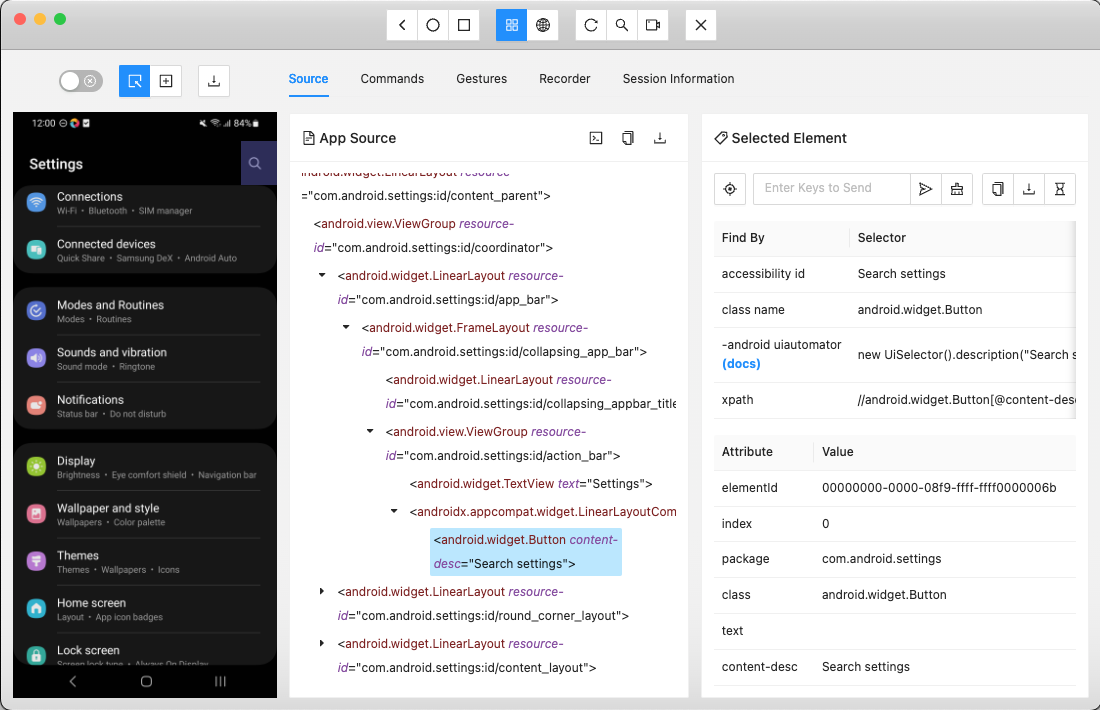
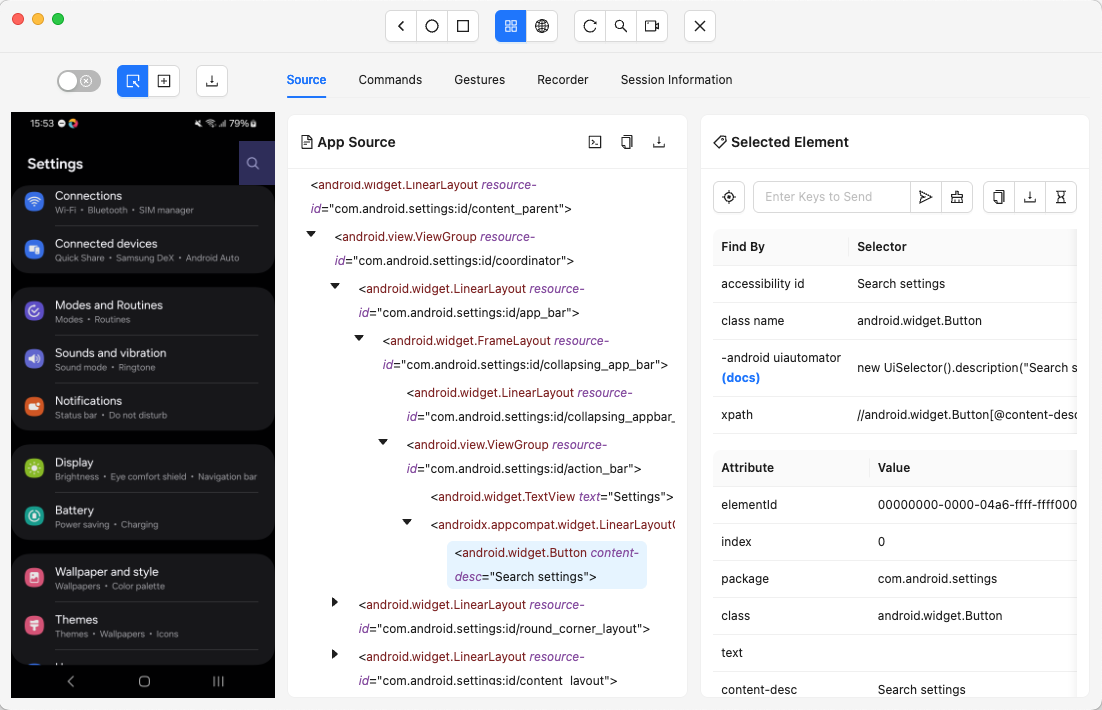
docs: add app settings page for theme & update images

diff --git a/docs/session-builder/settings.md b/docs/session-builder/settings.md
@@ -1,0 +1,14 @@
+---
+hide:
+    - toc
+
+title: Application Settings
+---
+
+The application settings can be accessed using the button in the top-right of the Session Builder screen.
+
+![alt text](assets/images/theme-selector.png)
+
+The only currently available option is the ability to change the application theme. By default, the
+Inspector will match the system theme, but it is also possible to explicitly switch to a light or
+dark theme.

diff --git a/docs/session-builder/index.md b/docs/session-builder/index.md
@@ -11,6 +11,7 @@ The **Session Builder** is the default screen shown upon opening the Inspector.
 
 The user interface here can be divided into several groups:
 
+- [Application Settings](./settings.md)
 - [Configuration of Server Details](./server-details.md)
 - [Capability Builder tab](./capability-builder.md)
 - [Saved Capability Sets tab](./saved-capability-sets.md)

diff --git a/README.md b/README.md
@@ -33,7 +33,7 @@ various features for interacting with the app.
 
 When inspecting a mobile app, the Inspector looks like this:
 
-![Appium Inspector screenshot](./docs/assets/images/inspector-window.png)
+![Appium Inspector screenshot](./docs/assets/images/session-inspector.png)
 
 ## Installation
 
